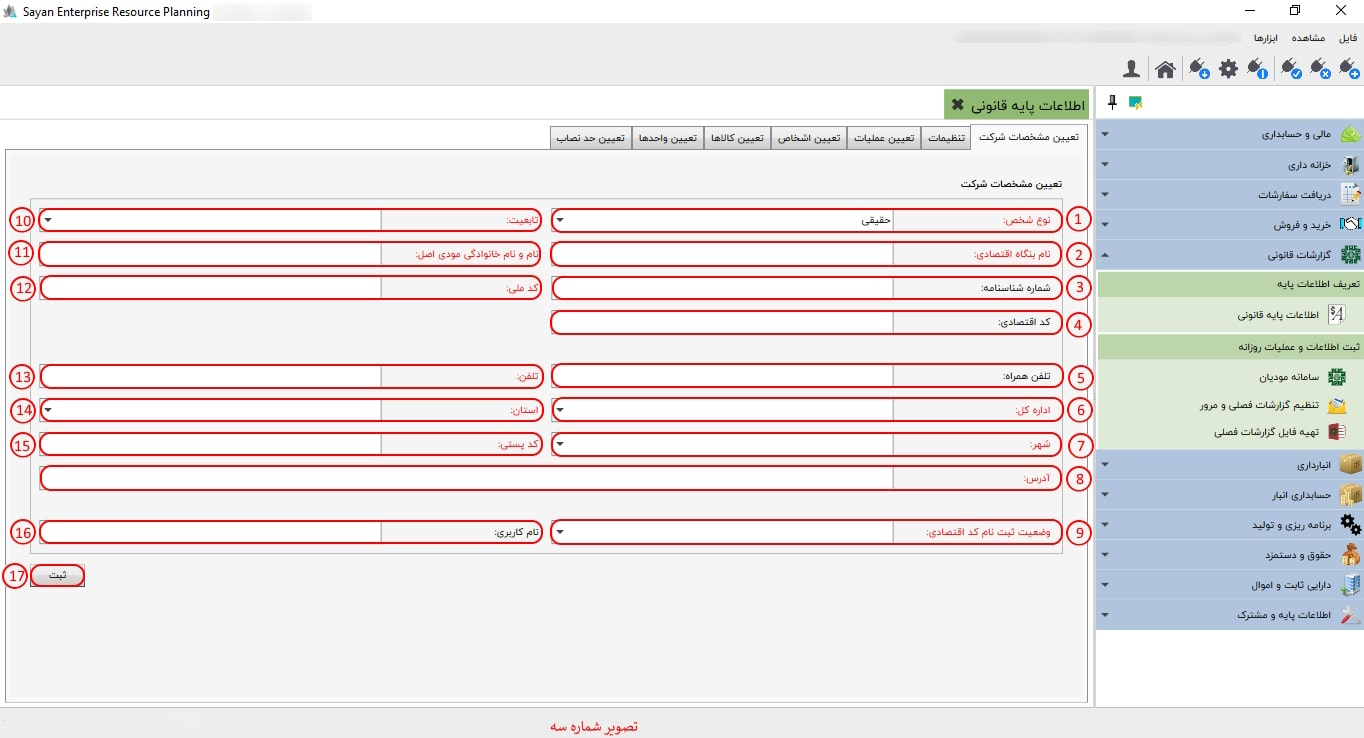
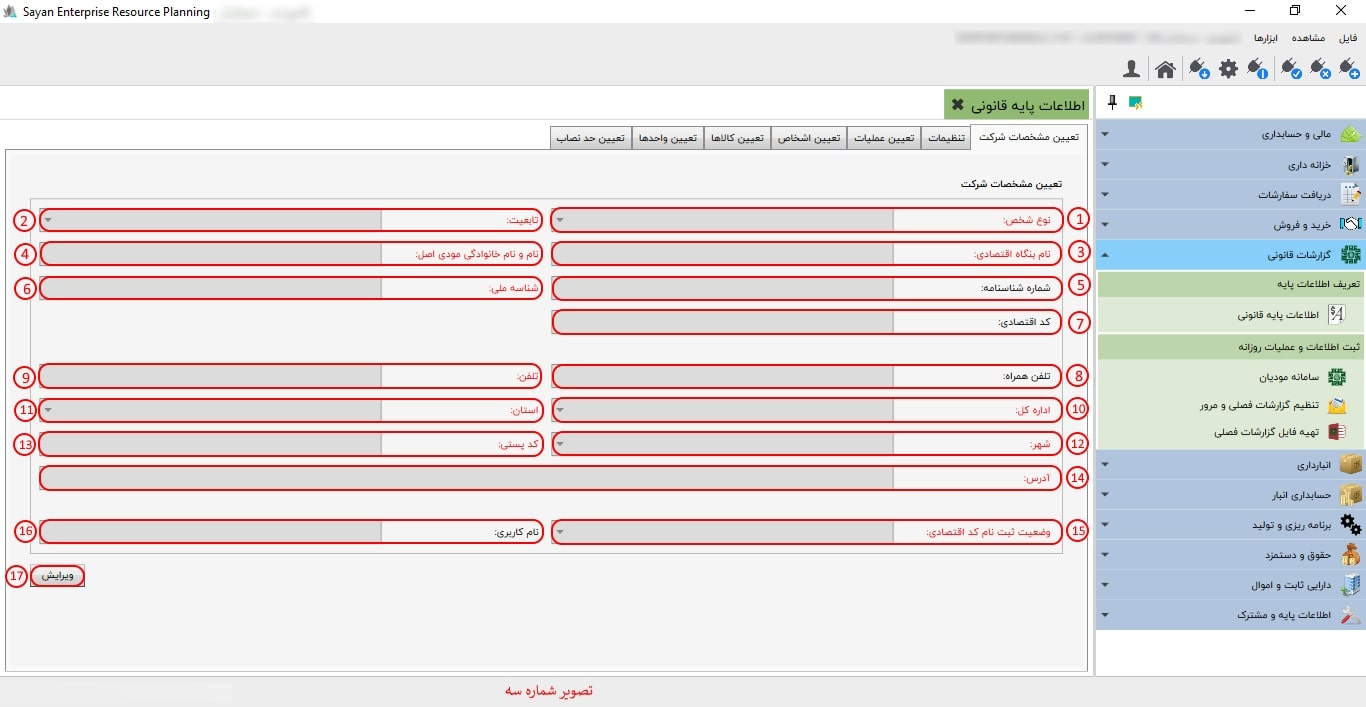
تغییرات

diff --git a/Help/fa-IR/_06_گزارشات قانونی/_01_اطلاعات پایه قانونی/Index.html b/Help/fa-IR/_06_گزارشات قانونی/_01_اطلاعات پایه قانونی/Index.html
@@ -37,90 +37,95 @@
 <p>             
 	<p>
 		<p>
-			-نوع شخص (کادر شماره یک): در این فیلد، با توجه به پرونده مالیاتی، نوع شخص کسبوکارتان را از بین حقیقی و حقوقی مشخص نمایید.              
-		                                                   
+			-نوع شخص (کادر شماره یک): در این فیلد، با توجه به پرونده مالیاتی، نوع شخص کسبوکارتان را از بین حقیقی و حقوقی مشخص نمایید.                                                              
 		</p>
 		<p>
-			-نام بنگاه اقتصادی ،شرکت (کادر شماره دو ):نام مجموعه تان را به همان صورت که در کارپوشه قید شده است وارد نمایید.                
+			نکته : نوع شخص در تصویر فوق ( تصویر شماره سه ) ، حقیقی انتخاب شده و در تصویر شماره چهار ، حقوقی انتخاب شده.                
 		</p>
-		-شماره شناسنامه (کادر شماره سه ):در این قسمت شماره ی شناسنامه مودی خود را وارد نمایید .
-		</p>
-		<p>
-			   نکته:فیلدهای قرمز الزامی هستند اما فیلدهای مشکی غیر الزامی می باشد.   	                               
+		-تابعیت (کادر شماره دو) :ایرانی یا غیر ایرانی بودن مودی مشخص گردد. 
 		</p>
 		<p>
-	-کد اقتصادی (کادر شماره چهار):در این قسمت، چنانچه نوع شخص "حقیقی مشارکت" باشد، کد اقتصادی ۱۱ رقمی را وارد نمایید. اما اگر نوع شخص "حقیقی انفرادی" باشد، وارد کردن کد اقتصادی ۱۴ رقمی الزامی است.
+			-نام بنگاه اقتصادی ،شرکت (کادر شماره سه ):نام مجموعه تان را به همان صورت که در کارپوشه قید شده است وارد نمایید.   	                               
 		</p>
 		<p>
-نکته:اگر نوع شخص حقوقی باشد، نیازی به وارد کردن کد اقتصادی نخواهد بود زیرا از همان شناسه ملی که وارد کرده اید، استفاده می شود.
+			نکته:فیلدهای قرمز الزامی هستند اما فیلدهای مشکی غیر الزامی می باشد. 
 		</p>
 		<p>
-			-تلفن همراه (کادر شماره پنج) : در این قسمت تلفن همراه خود را وارد کنید.         
+			-نام و نام خانوادگی مودی اصلی (کادر شماره چهار): در این فیلد، نام ونام خانوادگی شخص حقیقی که پرونده مالیاتی انفرادی به نام او هست و یا نماینده پرونده مالیاتی مشارکت مدنی می باشد را به طور کامل وارد نمایید. 
 		</p>
 		<p>
-			-اداره کل (کادر شماره شش): در این قسمت اداره کل مودی را وارد نمایید. 
+			-شماره شناسنامه (کادر شماره پنج ):در این قسمت شماره شناسنامه مودی خود را وارد نمایید . 	        
 		</p>
 		<p>
-			-شهر (کادر شماره هفت): در این بخش شهر مودی را وارد کنید.         
+			-کد ملی (کادر شماره شش) :کد ملی 10 رقمی مودی اصلی خود را وارد نمایید. 
 		</p>
 		<p>
-			-آدرس (کادر شماره هشت): در این بخش آدرس شرکت را بین 15 الی 70 کاراکتر وارد نمایید.            
+			-کد اقتصادی (کادر شماره هفت):در این قسمت، چنانچه نوع شخص "حقیقی مشارکت" باشد، کد اقتصادی ۱۱ رقمی را وارد نمایید. اما اگر نوع شخص "حقیقی انفرادی" باشد، وارد کردن کد اقتصادی ۱۴ رقمی الزامی است.       
 		</p>
 		<p>
-			-وضعیت ثبت نام اقتصادی (کادر شماره نه): از میان گزینههای موجود، آخرین وضعیت ثبت نام پرونده مالیاتی خود را انتخاب و مشخص نمایید. 
+			-تلفن همراه (کادر شماره هشت) : در این قسمت تلفن همراه مودی را وارد کنید.           
 		</p>
 		<p>
-			 نکته :اگر در مرحله چهارم ثبتنام هستید، گزینه "نام کاربری دارم" را انتخاب کنید. اگر هنوز ثبتنام شما به پایان نرسیده است، گزینه "کد رهگیری دارم" را برگزینید. و اگر تاکنون اقدامی برای ثبتنام نکردهاید، گزینه "پیش ثبتنام کد اقتصادی نکردهام" را انتخاب نمایید.           
+			- تلفن (کادر شماره نه) : در این کادر یک شماره ثابت معتبر از محل کسب و کار و یا شماره همراه ثبت شده در پرونده مالیاتی مودی را وارد نمایید. 
 		</p>
 		<p>
-			-تابعیت (کادر شماره ده): ایرانی یا غیر ایرانی بودن مودی یا شرکت مشخص گردد.           
+			-اداره کل (کادر شماره ده): در این قسمت اداره کل حوزه مالیاتی خود را وارد نمایید. 	            
+		</p>
+		<p>
+			-استان (کادر شماره یازده): پس از انتخاب اداره کل استان نمایش داده شده را انتخاب کنید.       
 		</p> 
 		<p>
-			-نام و نام خانوادگی مودی اصلی (کادر شماره یازده):  در این فیلد، نام ونام خانوادگی شخص حقیقی که مسئولیت پرداخت مالیات بر عهده او است را به طور کامل وارد نمایید.     
+			-شهر (کادر شماره دوازده): باتوجه به استانی که در کادر یازده وارد کردید شهر محل کسب و کار خود را از بین شهر های آن استان انتخاب کند. 
 		</p>
 		<p>
-			-کد ملی (کادر شماره دوازده) :کد ملی 10 رقمی مودی اصلی خود را وارد نمایید.     
+			نکته : درصورتی که شهر مورد نظر شما در لیست مذکور وجود نداشت نام شهر را در اطلاعات پایه و مشترک اضافه نمایید . 	    
 		</p>
 		<p>
-			-  (کادر شماره سیزده) :تلفن خود را وارد نمایید.  
+			-کد پستی (کادر شماره سیزده ):کد پستی 10 رقمی معتبر مختص به محل شرکت را وارد نمایید.  
 		</p>      
 		<p>
-			-استان (کادر شماره چهارده):استان حوزه مالیاتی را وارد نمایید.
+			-آدرس (کادر شماره چهارده): در این بخش آدرس شرکت را بین 15 الی 70 کاراکتر وارد نمایید. 	
 		</p>
 		<p>
-			-کد پستی (کادر شماره پانزده):کد پستی دقیق محل شرکت وارد نمایید.
+			-وضعیت ثبت نام اقتصادی (کادر شماره پانزده): از میان گزینههای موجود ، آخرین وضعیت ثبت نام پرونده مالیاتی خود را انتخاب و مشخص نمایید. 
 		</p>
 		<p>
--نام کاربری (کادر شماره شانزده):این فیلد با توجه به وضعیت ثبت نام اقتصادی ، نام کاربری یا کد رهگیری خواهد بود که دقیقا طبق اطلاعاتی که وارد کارپوشه میشوید تنظیم نمایید.
+			نکته :اگر در مرحله چهارم ثبتنام هستید، گزینه "نام کاربری دارم" را انتخاب کنید. اگر هنوز ثبتنام شما به پایان نرسیده است، گزینه "کد رهگیری دارم" را برگزینید. و اگر تاکنون اقدامی برای ثبتنام نکردهاید، گزینه "پیش ثبتنام کد اقتصادی نکردهام" را انتخاب نمایید. 
 		</p>
 		<p>
--ثبت (کادر شماره هفده):"اطلاعات لازم را وارد کرده و سپس دکمه ثبت را انتخاب کنید تا اطلاعات شما در سامانه ذخیره شود."
+			-نام کاربری (کادر شماره شانزده):در این فیلد با توجه به وضعیت ثبت نام اقتصادی ، نام کاربری یا کد رهگیری که هنگام ورود به کارپوشه وارد می شوید را تنظیم نمایید. 
+		</p>
+		<p>
+			-ثبت (کادر شماره هفده): پس از تکمیل و یا ویرایش فیلد های فوق جهت ذخیره اطلاعات دکمه ثبت را بفشارید. 
 		</p>
 		<p>
 برای ادامه مطلب به تصویر شماره  چهار مراجه نمایید.
 		</p>
 		<img class="FitPic" src="l4.jpg"/>
 		<p>
-			"پیشتر درباره یک سری فیلد ها توضیحات لازم ارائه شده است."
+			"پیشتر درباره یک سری فیلد ها توضیحات لازم ارائه شده است و همانطور که اشاره شده بود در تصویر شماره چهار نوع شخص حقوقی انتخاب شده است."          
 		</p>
 		<p>
--نوع شخص (کادر شماره یک):در این بخش می بایست اطلاعات مربوط به یک شخص حقوقی، مانند شرکت ها، سازمان ها یا موسسات را وارد نمایید.
+			-نوع شخص (کادر شماره یک):اگر به عنوان یک شحصیت حقوقی فعالیت مالیاتی انجام می دهید با انتخاب نوع حقوقی فیلد های مشخص شده در تصویر شماره چهار تغییر خواهند کرد که در ادامه به آنها پرداخته ایم و مابقی فیلد ها مطابق توضیحات قبلی پر خواهند شد.       
 		</p>
 		<p>
--نام شرکت (کادر شماره دو):فیلد نام شرکت را با نام کامل شرکت خود تکمیل نمایید.
+			-نوع شرکت (کادر شماره دو):ایرانی یا غیر ایرانی بودن شرکت مشخص گردد. 
 		</p>
 		<p>
--شماره ثبت(کادر شماره سه):"فیلد 'شناسه ثبت' را با شناسه ثبت معتبر خود پر کنید."
+			-نام شرکت (کادر شماره سه):فیلد نام شرکت را با نام کامل شرکت خود تکمیل نمایید. 
 </p>
 		
 		<p>
-		-نوع شرکت (کادر شماره چهار):نوع کسبوکار خود را مشخص کنید.
+			-نام و نام خانوادگی مدیر عامل (کادر شماره چهار): نام کامل مدیر عامل شرکت را وارد نمایید.   
 	</p>
 	<p>
--نام و نام خانوادگی مدیر عامل (کادر شماره پنج):در این فیلد نام و نام خانوادگی مدیر عامل را وارد نمایید.
+		-شماره ثبت(کادر شماره پنج):"فیلد 'شناسه ثبت' را با شناسه ثبت معتبر خود پر کنید." 
 	</p>
 	<p>
--شناسه ملی (کادر شماره شش):در این فیلد شناسه ملی 11 رقمی شرکت خود را وارد نمایید.
+		-شناسه ملی (کادر شماره شش):در این فیلد شناسه ملی 11 رقمی شرکت خود را وارد نمایید .     
+	</p>
+	<p>
+		نکته:اگر نوع شخص حقوقی باشد، نیازی به وارد کردن کد اقتصادی نخواهد بود زیرا از همان شناسه ملی که وارد کرده اید، استفاده می شود. 	
 	</p>
 	<p>
 		برای ادامه مطلب به تصویر شماره پنج مراجعه نمایید.

diff --git a/Help/fa-IR/_06_خرید و فروش/_19_اطلاعات پایه قانونی/Index.html b/Help/fa-IR/_06_خرید و فروش/_19_اطلاعات پایه قانونی/Index.html
@@ -49,7 +49,7 @@
 		-نام و نام خانوادگی مودی اصلی (کادر شماره چهار): در این فیلد، نام ونام خانوادگی شخص حقیقی که پرونده مالیاتی انفرادی به نام او هست و یا نماینده پرونده مالیاتی مشارکت مدنی می باشد را به طور کامل وارد نمایید.                               
 	</p>
 	<p>
-		-شماره شناسنامه (کادر شماره سه پنج ):در این قسمت شماره شناسنامه مودی خود را وارد نمایید .            
+		-شماره شناسنامه (کادر شماره پنج ):در این قسمت شماره شناسنامه مودی خود را وارد نمایید .            
 	</p>
 	<p>
 		-کد ملی (کادر شماره شش) :کد ملی 10 رقمی مودی اصلی خود را وارد نمایید.        
